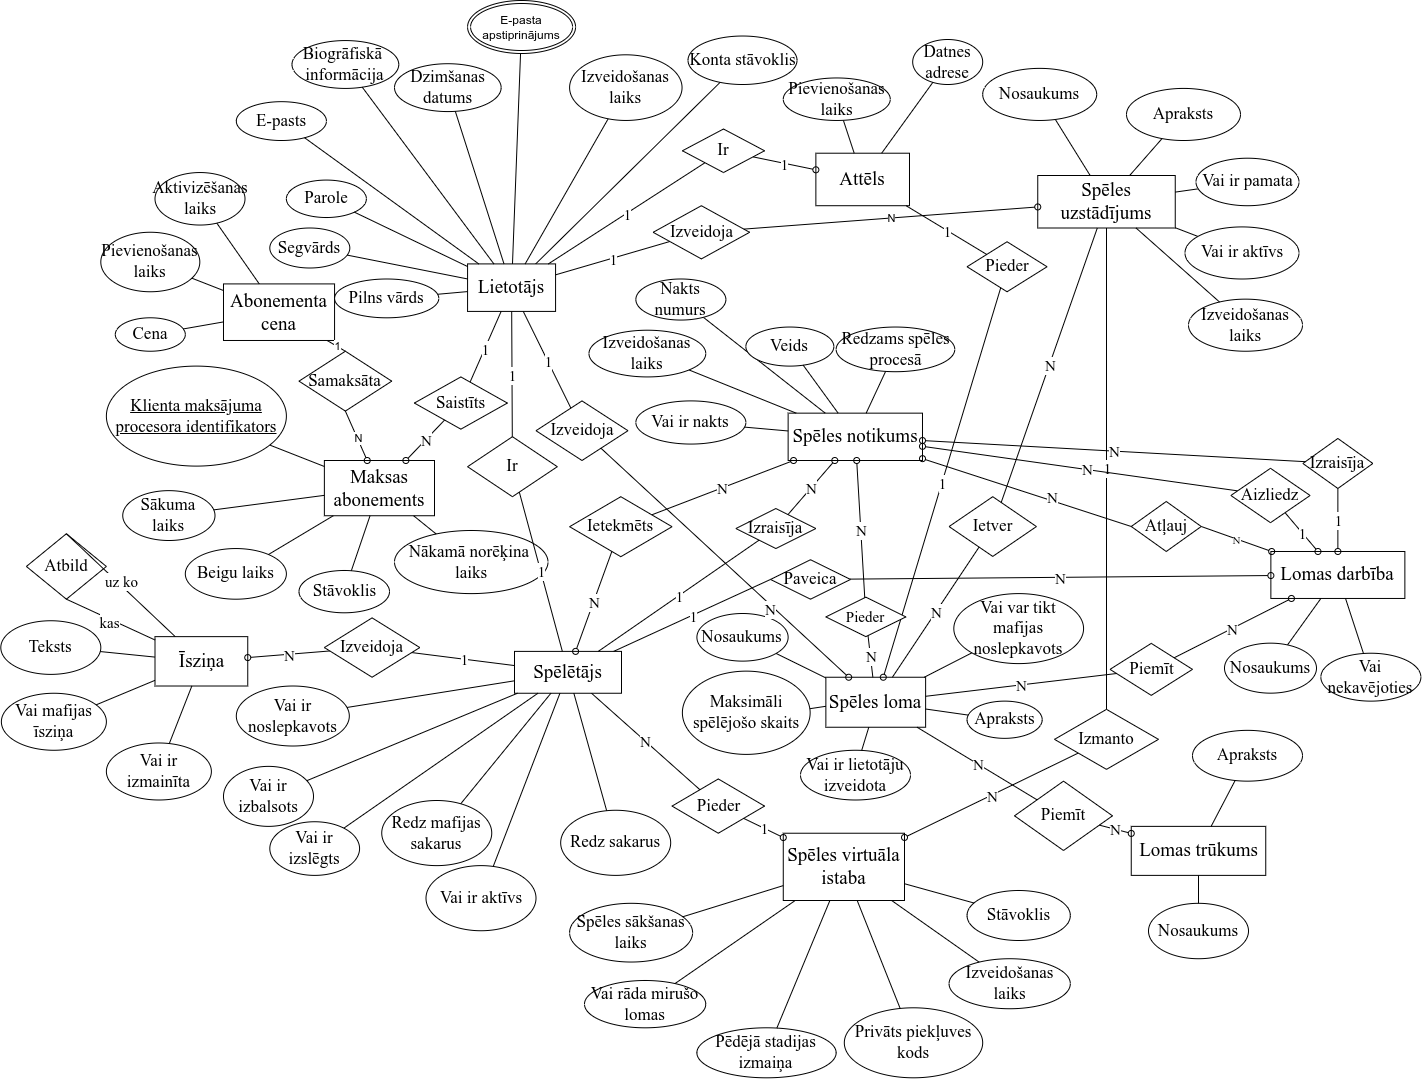
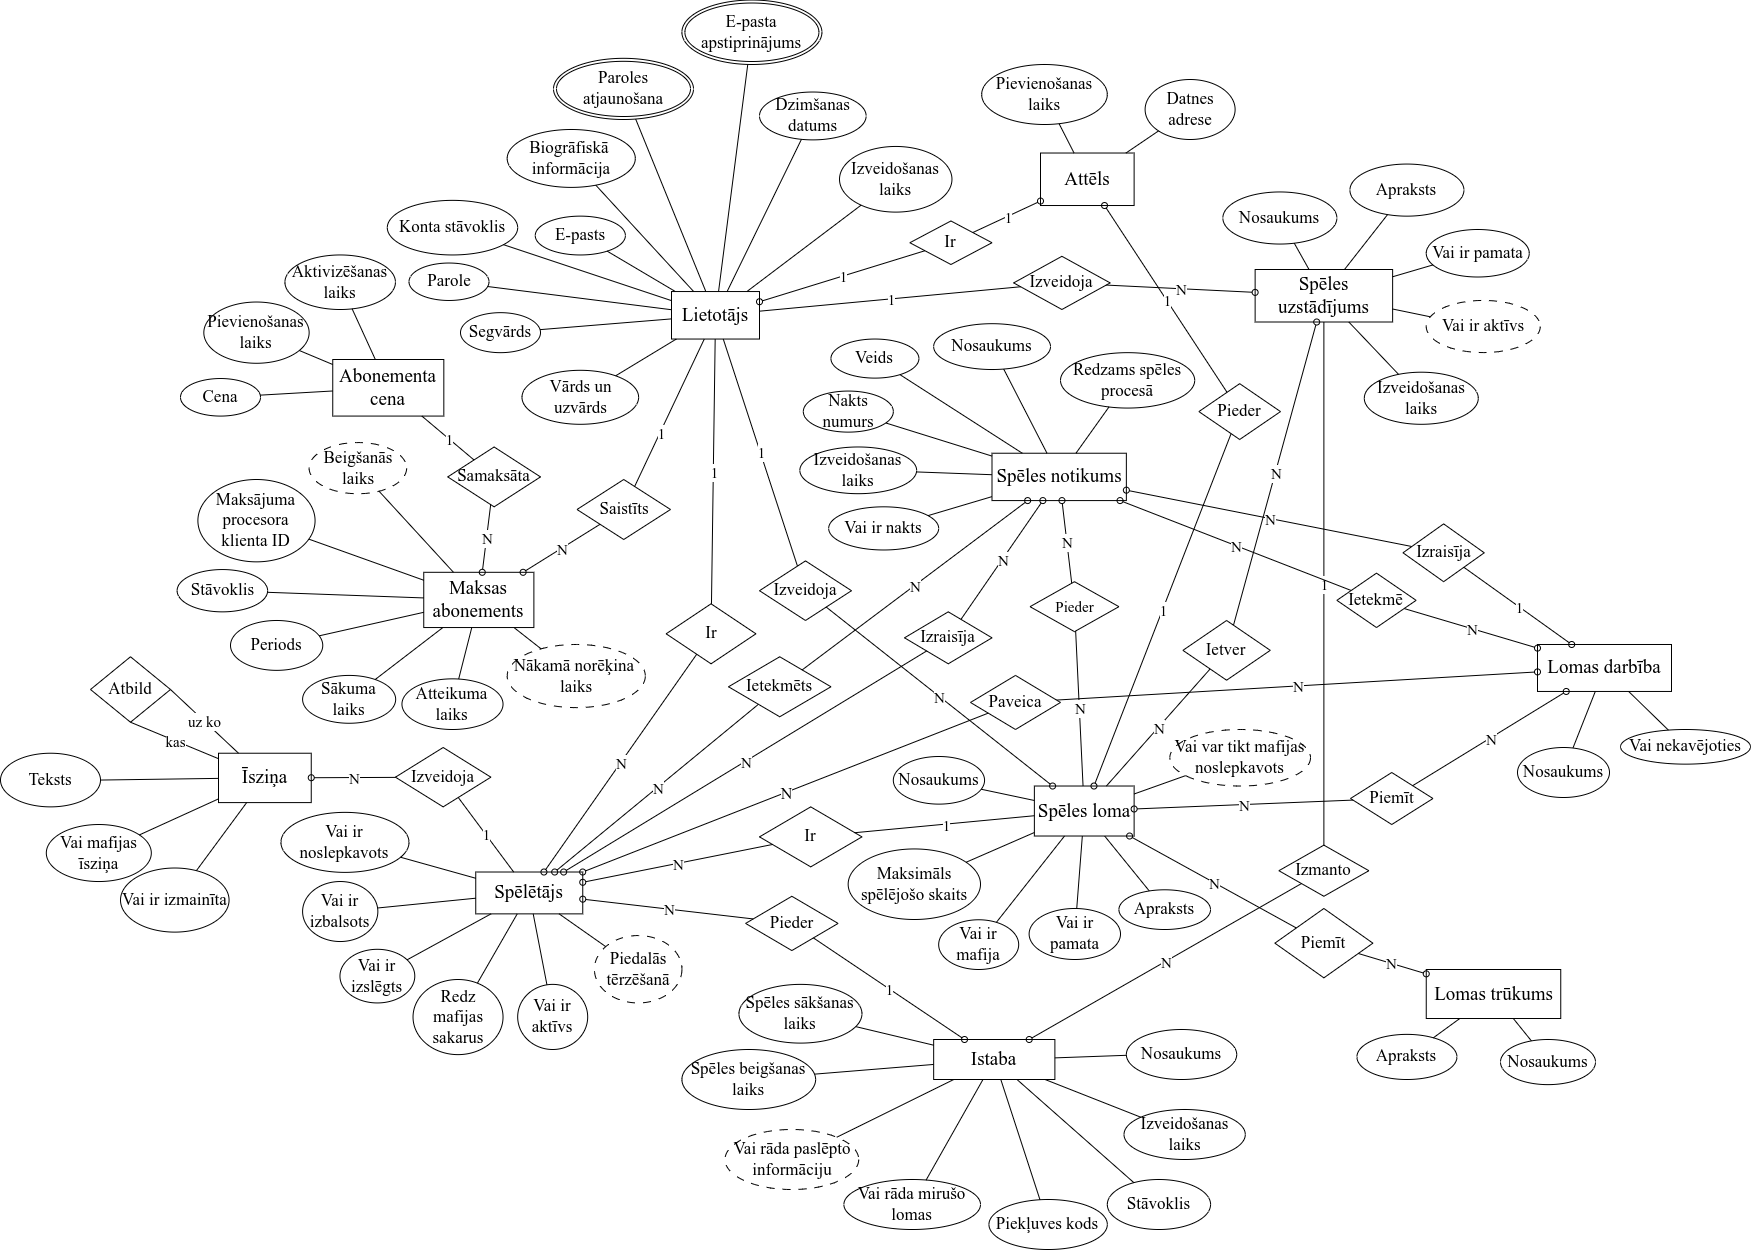
feat(tables): add table rerefences

diff --git a/src/design/entities/index.tex b/src/design/entities/index.tex
@@ -1,6 +1,21 @@
 \subsection{Datu bāzes tabulu apraksts}
 Datubāzes tabulu lauku, datu tipi, lauka atribūti - obligātums, noklusētās vērtības, primārā atslēga,
-unikalitāte - ir aprakstītas atsevišķās tabulās (skat. x.1, x.2, … , x.n tab. % TODO: add all table references).
+unikalitāte - ir aprakstītas atsevišķās tabulās (skat.
+\ref{tab:entity-role-action} tab.,
+\ref{tab:entity-role-disadvantage} tab.,
+\ref{tab:entity-image} tab.,
+\ref{tab:entity-subscription-price} tab.,
+\ref{tab:entity-password-recovery} tab.,
+\ref{tab:entity-email-confirmation} tab.,
+\ref{tab:entity-game-role} tab.,
+\ref{tab:entity-account-status} tab.,
+\ref{tab:entity-room-status} tab.,
+\ref{tab:entity-user} tab.,
+\ref{tab:entity-game-setup} tab.,
+\ref{tab:entity-player} tab.,
+\ref{tab:entity-paid-subscription} tab.,
+\ref{tab:entity-message} tab.)
+
 Visām tabulām, \texttt{VARCHAR} un \texttt{TEXT} laukiem tiek lietots UTF8 kodējums.
 
 \input{./src/design/entities/role-action.tex}

diff --git a/src/design/entities/paid-subscription.tex b/src/design/entities/paid-subscription.tex
@@ -1,5 +1,5 @@
 \begin{entityTable}{MaksasAbonements}{entity-paid-subscription}
-	\entityTableRow{stripe\_id}{varchar(255)}{unique, not null}{Unikālais identifikators, kurš tiek iegūts no maksājuma procesora klienta - \href{https://stripe.com}{Stripe}} % FIX: use correct url function
+	\entityTableRow{stripe\_id}{varchar(255)}{unique, not null}{Unikālais identifikators, kurš tiek iegūts no maksājuma procesora klienta - \href{https://stripe.com}{Stripe}}
 	\entityTableRow{stavoklis}{int8}{not null}{Abonementa stāvoklis, \texttt{FOREING KEY} uz \hyperref[tab:entity-subscription-status]{AbonementaStavoklis} tabulas id kolonnu}
 	\entityTableRow{sakuma\_laiks}{timestamp}{not null, default current\_timestamp}{Laiks, kad abonements ir aktivizēts}
 	\entityTableRow{periods}{interval}{not null}{Laika periods dienās, cik ilgi abonements ir aktīvs}

diff --git a/src/design/logical-description.tex b/src/design/logical-description.tex
@@ -1,7 +1,7 @@
 \subsection{Datu bāzes loģiskais ER modelis}
 \begin{figure}[htbp]
 	\centering
-	\includegraphics[width=\linewidth]{./src/img/KonceptualaisERModelis.png} % TODO: replace with correct picture
+	\includegraphics[width=\linewidth]{./src/img/LogiskaisERDModelis.png}
 	\caption{Datu bāzes loģiskais ER modelis}
 	\label{fig:logical-model}
 \end{figure}

diff --git a/src/requirements/functional-requirements/IO-functions/IIDP09.tex b/src/requirements/functional-requirements/IO-functions/IIDP09.tex
@@ -1,4 +1,4 @@
-\parameterTable{}{IIDP09} % TODO: add title
+\parameterTable
 {Biogrāfiskā informācija}
 {IIDP09}
 {
